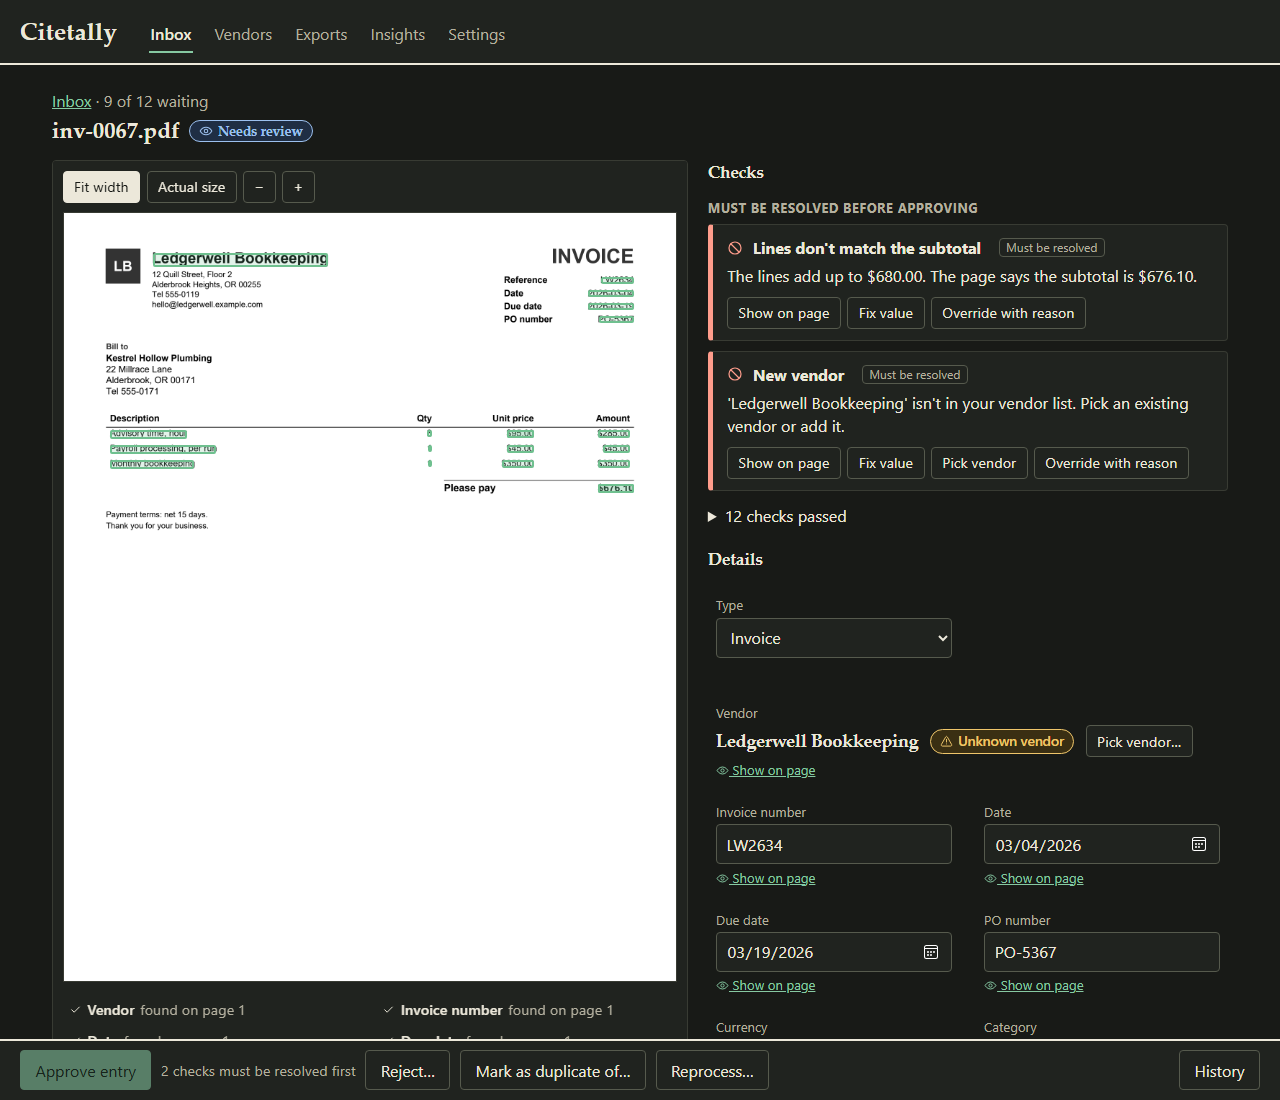
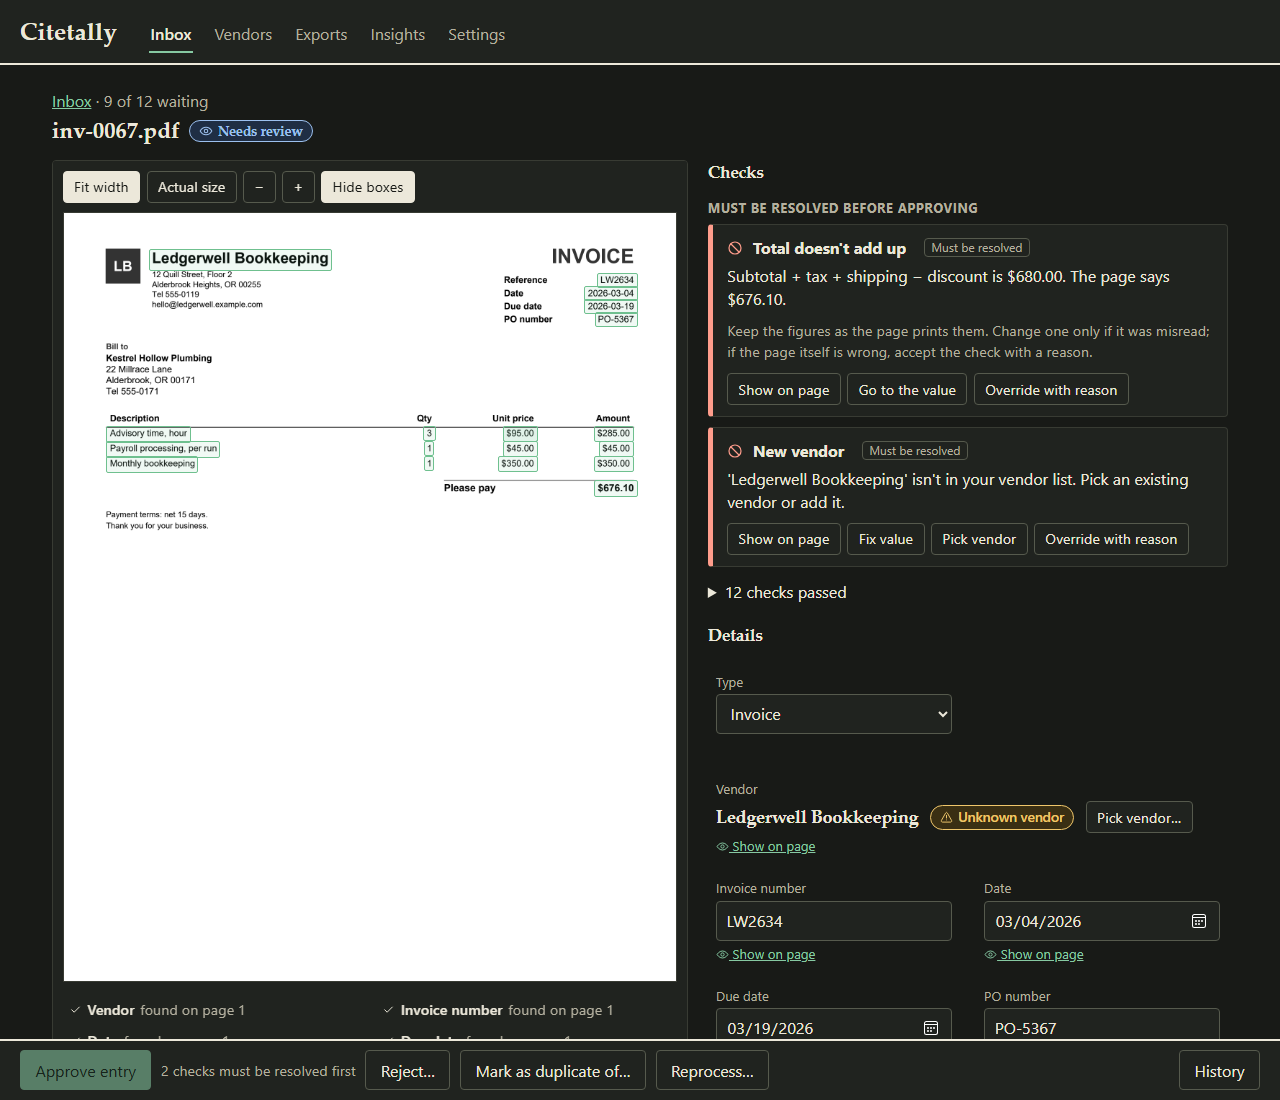
Docs: retake the review screenshots and rebuild the walkthrough in the current app

diff --git a/docs/PRE_PUBLISH.md b/docs/PRE_PUBLISH.md
@@ -25,7 +25,7 @@ Run in Phase 10 (2 November 2026), again on 3 November 2026 after the sealed run
 |---|---|---|
 | **1. Secrets**: working tree and full history | PASS | `tools/secret_scan.py --history` (gitleaks, pinned), 6 Nov: 130 commits scanned, no leaks. GitHub secret scanning: 0 alerts. The commit hook runs the same scan on staged files. |
 | `.env` ignored, `.env.example` placeholders only | PASS | `.gitignore` excludes `.env`; `.env.example` is the only env file tracked and holds local addresses and model names only. |
-| Screenshots and GIF checked for keys, emails, paths | PASS | Earlier passes looked at all eight images and the GIF frames. On 6 Nov six of the eight screenshots were looked at again (inbox, review, picture check, failed upload, exports, insights): invented vendors and `example.com` addresses only, no file paths or account names. The screenshots predate the screen changes of D-083 (box outline, Hide boxes button); this is cosmetic. |
+| Screenshots and GIF checked for keys, emails, paths | PASS | Earlier passes looked at all eight images and the GIF frames. On 6 Nov six of the eight screenshots were looked at again (inbox, review, picture check, failed upload, exports, insights): invented vendors and `example.com` addresses only, no file paths or account names. On 6 Nov the three review screens (clean, picture check, blocked) were retaken from the demo documents in the current app, so they show the box outline and the Hide boxes button of D-083; they and the rebuilt GIF were looked at for paths, accounts and real data, and none was found. The other screenshots show screens that did not change. |
 | **2. Personal data and local traces** | PASS | `tools/check_personal_info.py --all`: no personal information in 299 files. A search of tracked files for the account name, local user-folder paths, machine names and personal email found only the `LICENSE` name, links to sibling projects and the guard's own test fixtures. Every commit's author and committer is the GitHub no-reply address, or GitHub for merges. No attribution lines in any commit or in pull-request descriptions 10 to 49. |
 | Wording about the author or first person in tracked docs | Fixed 6 Nov | The word "owner" used for a person (in this file and in `docs/DECISIONS.md`) and four first-person phrases (in `docs/DECISIONS.md` and `eval/reports/eval_heldout_analysis.md`) were reworded. "Owner" now appears only for roles inside the product. |
 | Private and local files ignored | PASS | `CLAUDE.md`, `CLAUDE.local.md`, `.claude/`, `data/` (except the small demo set), databases, `eval/runs/`, `.venv`, `node_modules` and build output are in `.gitignore`. |
@@ -54,5 +54,3 @@ Run in Phase 10 (2 November 2026), again on 3 November 2026 after the sealed run
 - The GIF frames and two of the eight screenshots on 6 Nov (checked in earlier passes).
 
 ## Follow-ups, if wanted
-
-1. Refresh the screenshots and GIF so they show the current review screen.
